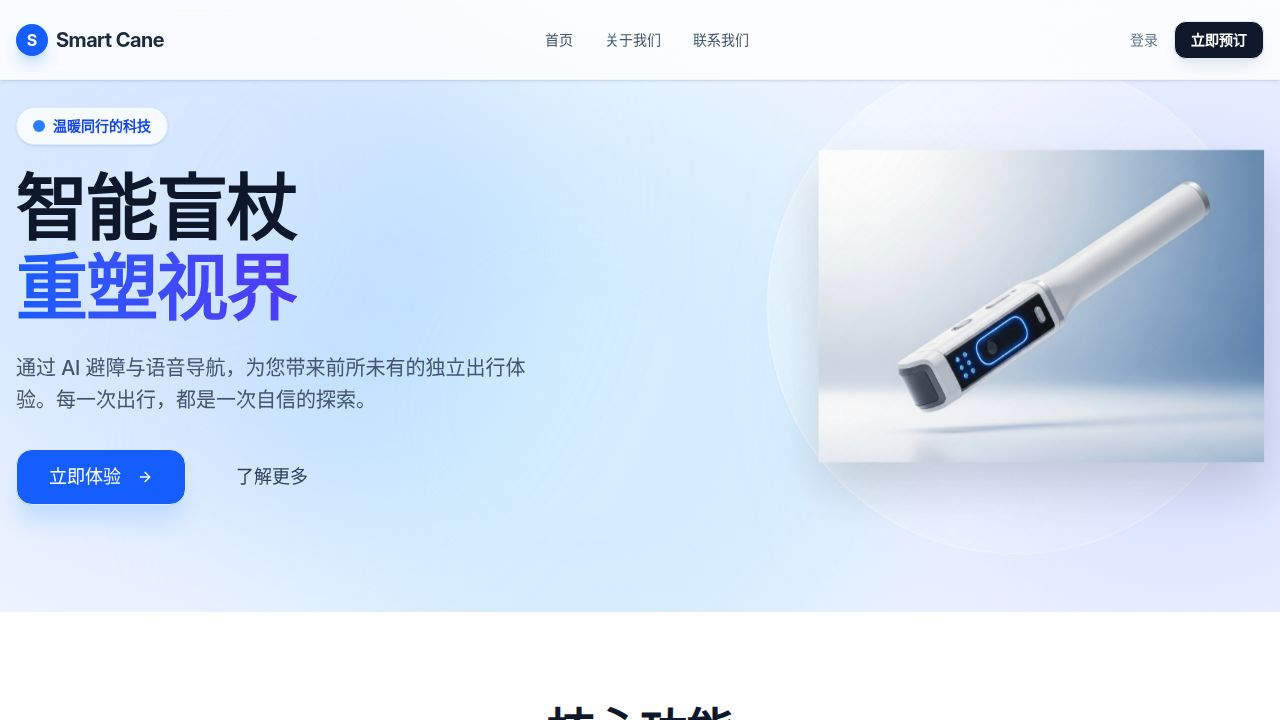
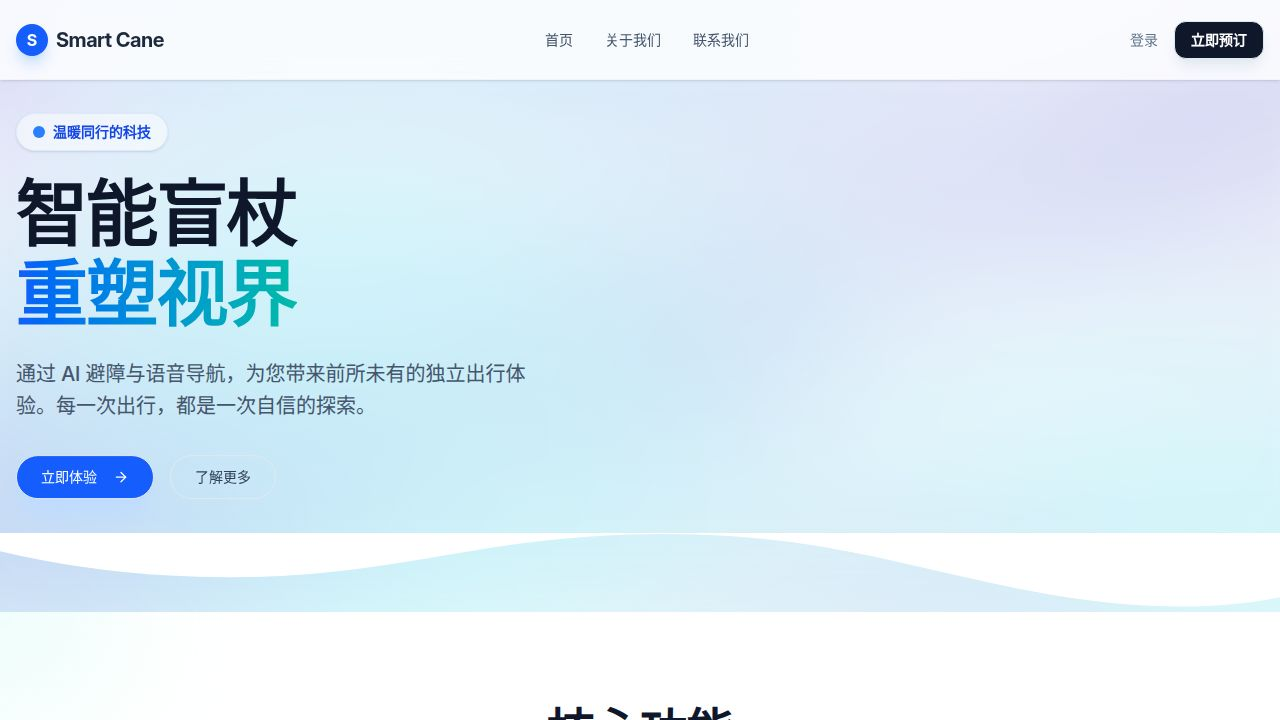
Update website appearance to create smooth visual transitions
Change Hero section background to a blue and white gradient, adjust Features section background to white, and update the SVG wave separator fill to white to eliminate the visible gap between sections.

Replit-Commit-Author: Agent
Replit-Commit-Session-Id: 39cdb421-116c-4180-8edf-32984cb34055
Replit-Commit-Checkpoint-Type: full_checkpoint
Replit-Commit-Event-Id: 92d3fbef-5abf-41f6-872c-57a2390e2457
Replit-Commit-Screenshot-Url: https://storage.googleapis.com/screenshot-production-us-central1/62e3967f-8419-4206-b685-6950388dcea8/39cdb421-116c-4180-8edf-32984cb34055/qAplPhm
Replit-Helium-Checkpoint-Created: true

diff --git a/client/src/components/Hero.tsx b/client/src/components/Hero.tsx
@@ -5,7 +5,7 @@ import { Button } from "@/components/ui/button";
 
 export default function Hero() {
   return (
-    <section className="relative min-h-[85vh] flex items-center overflow-hidden bg-slate-50">
+    <section className="relative min-h-[85vh] flex items-center overflow-hidden bg-gradient-to-b from-blue-50 to-white">
       {/* Background - Soft Waves with Airiness */}
       <div className="absolute inset-0 z-0 opacity-40">
         <img 
@@ -81,7 +81,7 @@ export default function Hero() {
       {/* Wave Separator */}
       <div className="absolute bottom-[-1px] left-0 w-full overflow-hidden leading-none z-20">
         <svg className="relative block w-[calc(100%+1.3px)] h-[80px]" data-name="Layer 1" xmlns="http://www.w3.org/2000/svg" viewBox="0 0 1200 120" preserveAspectRatio="none">
-            <path d="M321.39,56.44c58-10.79,114.16-30.13,172-41.86,82.39-16.72,168.19-17.73,250.45-.39C823.78,31,906.67,72,985.66,92.83c70.05,18.48,146.53,26.09,214.34,3V0H0V27.35A600.21,600.21,0,0,0,321.39,56.44Z" className="fill-[#F8FAFC]"></path>
+            <path d="M321.39,56.44c58-10.79,114.16-30.13,172-41.86,82.39-16.72,168.19-17.73,250.45-.39C823.78,31,906.67,72,985.66,92.83c70.05,18.48,146.53,26.09,214.34,3V0H0V27.35A600.21,600.21,0,0,0,321.39,56.44Z" className="fill-white"></path>
         </svg>
       </div>
     </section>

diff --git a/client/src/components/Features.tsx b/client/src/components/Features.tsx
@@ -58,7 +58,7 @@ const features: FeatureItem[] = [
 
 export default function Features() {
   return (
-    <section className="py-24 bg-[#F8FAFC] relative overflow-hidden">
+    <section className="py-24 bg-white relative overflow-hidden">
       {/* Decorative background elements to break monotony */}
       <div className="absolute top-0 left-0 w-64 h-64 bg-teal-100/30 rounded-full blur-3xl -translate-x-1/2 -translate-y-1/2" />
       <div className="absolute bottom-0 right-0 w-96 h-96 bg-blue-100/30 rounded-full blur-3xl translate-x-1/3 translate-y-1/3" />